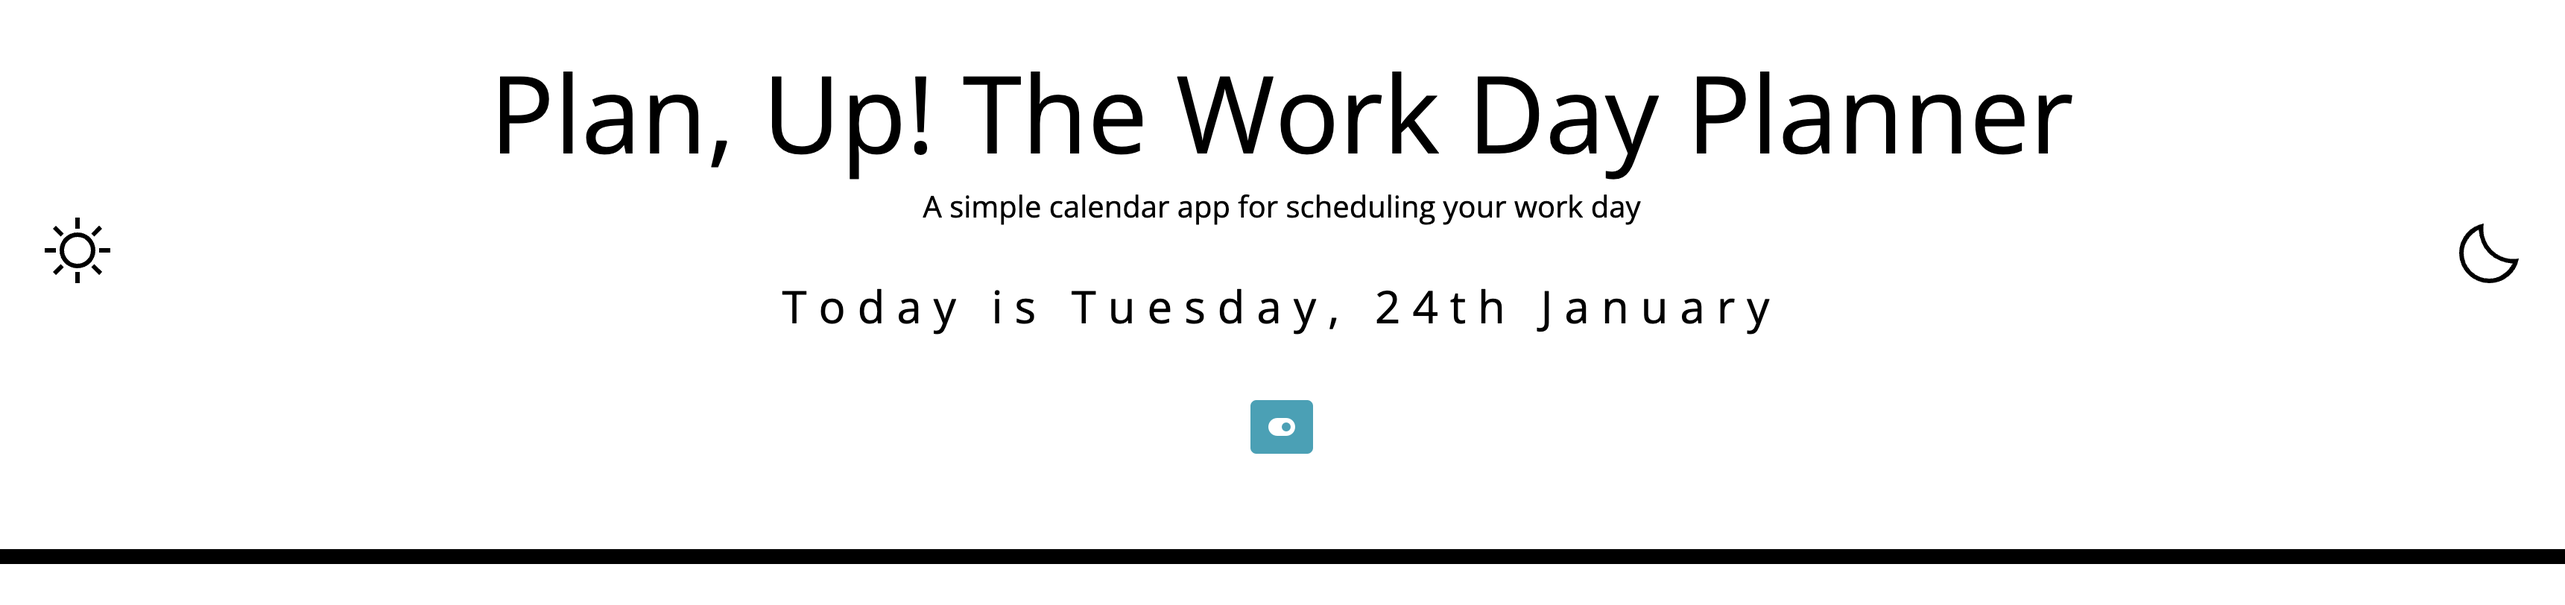
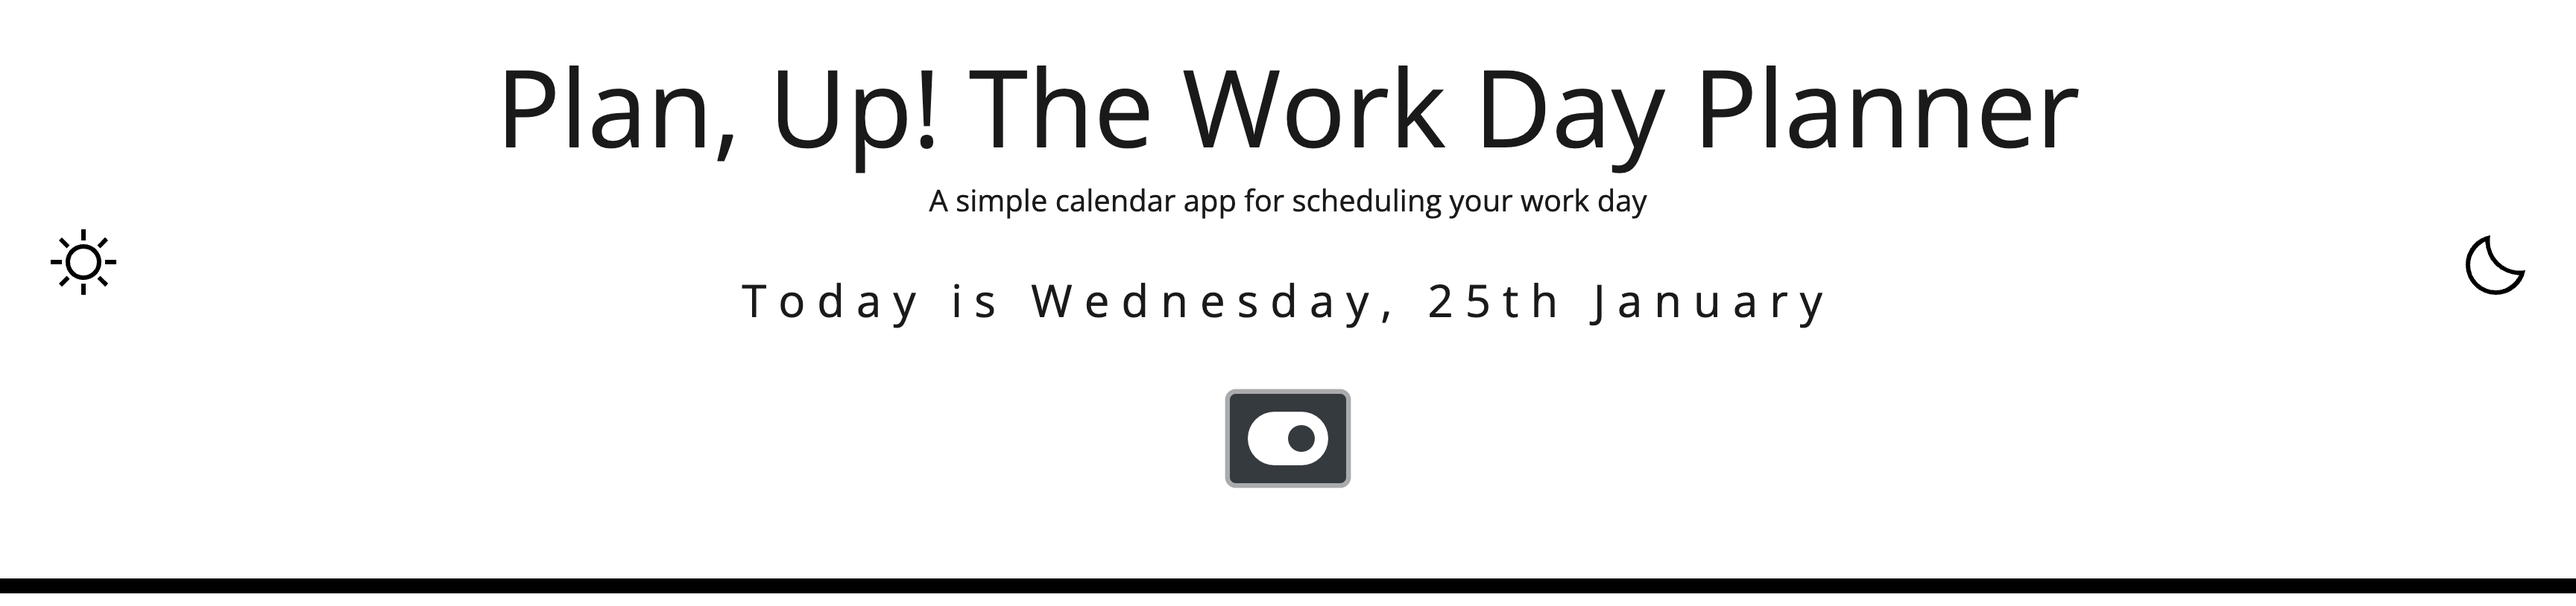
readme updated screenshots

diff --git a/README.md b/README.md
@@ -74,7 +74,12 @@
 <!-- ABOUT THE PROJECT -->
 ## About The Project
 
-TODO:
+<div align="center">
+  <img src="assets/images/screenshots/planner_main_darkmode.png" alt="header-image" width="800" height="600">
+</div>
+
+I simple day planner to help get your work day organised.  Set an a new todo entry in a time block and hit the save button to store it.
+Upon refresh, the data persists.  A light/dark mode button is also featured.
 
 ## Overview
  
@@ -237,7 +242,7 @@ Deployed Project Link: [https://matt-jones-developer.github.io/plan_up-daily_pla
 [license-url]: https://github.com/Matt-Jones-Developer/plan_up-daily_planner/blob/main/LICENSE.txt
 [linkedin-shield]: https://img.shields.io/badge/-LinkedIn-black.svg?style=for-the-badge&logo=linkedin&colorB=555
 [linkedin-url]: www.linkedin.com/in/matt-jones-zx81
-[main-app-screenshot]: assets/images/screenshots/planner_main.png
+[main-app-screenshot]: assets/images/screenshots/planner_main_darkmode.png
 [product-screenshot]: assets/images/screenshots/planner_main.png
 [console-output-screenshot]: assets/images/screenshots/planner_local_save.png
 [jquery-url]: https://jquery.com/
